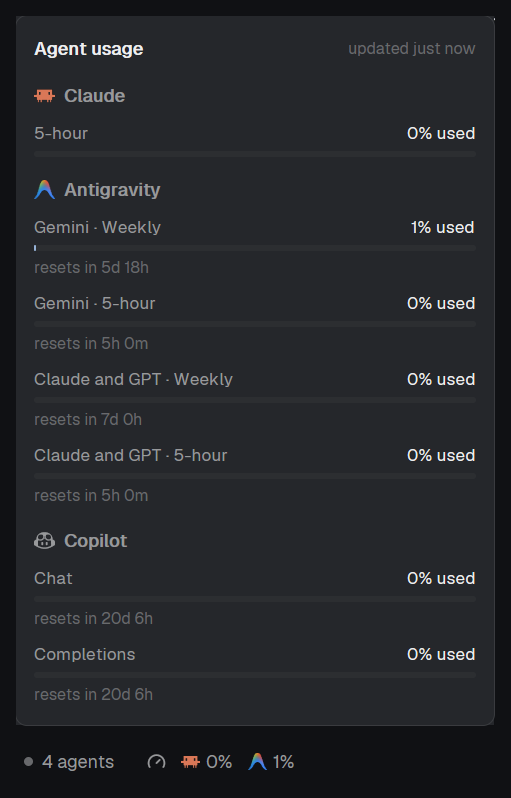
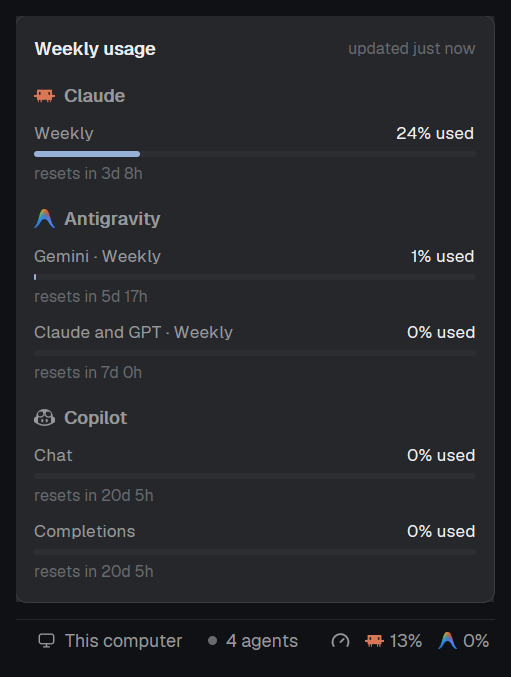
Bar shows the 5-hour limit, popup the weekly ones

diff --git a/mods/workspace-status-usage/usage.js b/mods/workspace-status-usage/usage.js
@@ -1,6 +1,7 @@
 import { exec, home, readTextFile } from "herdr";
 
-// Each provider answers { id, name, icon, tint?, windows: [{ label, used, resetsAt }], error }.
+// Each provider answers { id, name, icon, tint?, windows: [{ label, kind, used, resetsAt }], error }.
+// `kind` is "5h", "week" or "month": the bar shows the 5-hour windows, the popup the rest.
 // `used` is a percentage 0-100; `resetsAt` an ISO time or null.
 // `icon` is a path under ~/.config/herdr-app; `tint` means it takes the text color (svg) rather than its own (image).
 // `bar: false` leaves the provider out of the status bar; the popup still lists it.
@@ -12,12 +13,13 @@ async function claude() {
   const saved = JSON.parse((await readTextFile(`${home()}/.claude/herdr-rate-limits.json`)) ?? "null");
   if (saved?.rate_limits) {
     const now = Date.now() / 1000;
-    const win = (label, w) => w && {
+    const win = (label, kind, w) => w && {
       label,
+      kind,
       used: w.resets_at && w.resets_at < now ? 0 : w.used_percentage ?? 0,
       resetsAt: w.resets_at && w.resets_at >= now ? new Date(w.resets_at * 1000).toISOString() : null,
     };
-    return { ...base, windows: [win("5-hour", saved.rate_limits.five_hour), win("Weekly", saved.rate_limits.seven_day)].filter(Boolean) };
+    return { ...base, windows: [win("5-hour", "5h", saved.rate_limits.five_hour), win("Weekly", "week", saved.rate_limits.seven_day)].filter(Boolean) };
   }
   const creds = JSON.parse((await readTextFile(`${home()}/.claude/.credentials.json`)) ?? "{}");
   const token = creds.claudeAiOauth?.accessToken;
@@ -29,12 +31,12 @@ async function claude() {
   if (r.status === 401) return { ...base, error: "Token expired: run Claude Code once to refresh it" };
   if (!r.ok) return { ...base, error: `HTTP ${r.status}` };
   const d = await r.json();
-  const win = (label, w) => w && { label, used: w.utilization ?? 0, resetsAt: w.resets_at ?? null };
+  const win = (label, kind, w) => w && { label, kind, used: w.utilization ?? 0, resetsAt: w.resets_at ?? null };
   return { ...base, windows: [
-    win("5-hour", d.five_hour),
-    win("Weekly", d.seven_day),
-    win("Weekly Opus", d.seven_day_opus),
-    win("Weekly Sonnet", d.seven_day_sonnet),
+    win("5-hour", "5h", d.five_hour),
+    win("Weekly", "week", d.seven_day),
+    win("Weekly Opus", "week", d.seven_day_opus),
+    win("Weekly Sonnet", "week", d.seven_day_sonnet),
   ].filter(Boolean) };
 }
 
@@ -49,6 +51,7 @@ async function antigravity() {
   const short = (g) => g.replace(/ models?$/i, "");
   return { ...base, windows: groups.flatMap((g) => g.buckets.map((b) => ({
     label: `${short(g.name)} · ${b.window === "5h" ? "5-hour" : "Weekly"}`,
+    kind: b.window === "5h" ? "5h" : "week",
     used: Math.round((1 - b.remaining_fraction) * 1000) / 10,
     resetsAt: b.reset_time ?? null,
   }))) };
@@ -66,7 +69,7 @@ async function copilot() {
   const d = await r.json();
   const q = d.quota_snapshots ?? {};
   const reset = d.quota_reset_date ?? null;
-  const win = (label, s) => s && !s.unlimited && s.entitlement > 0 && { label, used: Math.round((100 - s.percent_remaining) * 10) / 10, resetsAt: reset };
+  const win = (label, s) => s && !s.unlimited && s.entitlement > 0 && { label, kind: "month", used: Math.round((100 - s.percent_remaining) * 10) / 10, resetsAt: reset };
   return { ...base, windows: [
     win("Premium requests", q.premium_interactions),
     win("Chat", q.chat),
@@ -83,9 +86,10 @@ export async function fetchUsage() {
   return { updatedAt: Date.now(), providers: results };
 }
 
-// The tightest window: what the status bar shows for a provider.
-export function peak(p) {
-  return p.windows.reduce((m, w) => Math.max(m, w.used), -1);
+// The tightest window of a kind ("5h" for the status bar); any window when it has none of that kind.
+export function peak(p, kind) {
+  const of = p.windows.filter((w) => w.kind === kind);
+  return (of.length ? of : p.windows).reduce((m, w) => Math.max(m, w.used), -1);
 }
 
 export function tone(t, used) {

diff --git a/mods/agent-usage-popup/main.js b/mods/agent-usage-popup/main.js
@@ -3,6 +3,7 @@ import { h_flex, v_flex } from "gpui-base";
 import { theme, shared } from "herdr";
 
 // Opened from the status bar's usage item; it fetches, this only shows what it shared.
+// The bar already shows the 5-hour windows, so this lists the longer ones (weekly, monthly).
 const USAGE = "agent-usage";
 
 function ago(ms) {
@@ -39,7 +40,7 @@ export default class AgentUsagePopup extends View {
     const data = shared(USAGE);
     return v_flex().id("root").size_full().overflow_y_scrollbar().p(12).gap(12).bg(t.popover).text_size(12).text_color(t.foreground)
       .child(h_flex().justify_between().items_center()
-        .child(div().font_semibold().child("Agent usage"))
+        .child(div().font_semibold().child("Weekly usage"))
         .child(div().text_size(10.5).text_color(t.dim).child(data ? `updated ${ago(data.updatedAt)}` : "loading…")))
       .children((data?.providers ?? []).map((p) => v_flex().gap(6)
         .child(h_flex().gap(6).items_center()
@@ -47,6 +48,6 @@ export default class AgentUsagePopup extends View {
           .child(div().font_semibold().text_color(t.muted).child(p.name)))
         .when(Boolean(p.error), (el) => el.child(div().text_size(11).text_color(t.blocked).child(p.error)))
         .when(!p.error && p.windows.length === 0, (el) => el.child(div().text_size(11).text_color(t.dim).child("No limits reported")))
-        .children(p.windows.map((w, i) => this.window(t, w, `${p.id}-${i}`)))));
+        .children(p.windows.filter((w) => w.kind !== "5h").map((w, i) => this.window(t, w, `${p.id}-${i}`)))));
   }
 }

diff --git a/mods/workspace-status-usage/main.js b/mods/workspace-status-usage/main.js
@@ -53,7 +53,7 @@ export default class WorkspaceStatus extends View {
   usage(t) {
     const data = shared(USAGE);
     const items = (data?.providers ?? []).filter((p) => p.bar !== false).map((p) => {
-      const used = peak(p);
+      const used = peak(p, "5h");
       return h_flex().gap(4).items_center()
         .child(logo(t, p, 13))
         .child(div().text_color(p.error || used < 0 ? t.dim : tone(t, used)).child(used < 0 ? "–" : `${Math.round(used)}%`));
@@ -61,7 +61,7 @@ export default class WorkspaceStatus extends View {
     return h_flex().id("usage").gap(10).items_center().px(6).rounded(4).hover((s) => s.bg(t.hover))
       .on_click((_e, cx) => {
         this.refresh(cx);
-        openOverlay({ mod: "agent-usage-popup", kind: "popup", width: 320, height: 580 });
+        openOverlay({ mod: "agent-usage-popup", kind: "popup", width: 320, height: 440 });
       })
       .child(svg("mods/workspace-status-usage/gauge.svg").size(13).when(this.loading, (el) => el.text_color(t.working)))
       .when(items.length === 0, (el) => el.child(div().text_color(t.dim).child("usage…")))

diff --git a/RECIPE.md b/RECIPE.md
@@ -1,9 +1,9 @@
 # Agent Usage
 
 Your coding agents' rate limits in Herdr's status bar. After "N agents", each
-agent's logo is followed by how much of its tightest limit you've used: Claude
-and Antigravity by default. Click it for a popup listing every limit window
-(5-hour, weekly, per model group), each with a bar and the time until it resets.
+agent's logo is followed by how much of its 5-hour limit you've used: Claude
+and Antigravity by default. Click it for a popup with the weekly limits (and
+Copilot's monthly ones), each with a bar and the time until it resets.
 
 ![Agent Usage](preview.png)
 
@@ -13,26 +13,29 @@ and Antigravity by default. Click it for a popup listing every limit window
   background, 11.8px `muted` text): `This computer · <branch> · ● N agents`,
   then the usage item, then the palette hint on the right as before.
 - **Usage item:** a 13px gauge icon, then per agent a 13px logo and a
-  percentage (`22%`), 10px apart, 4px between logo and number. It's a rounded
+  5-hour percentage (`13%`), 10px apart, 4px between logo and number. It's a rounded
   (4px) button with 6px side padding and a `hover` background.
   - Number color: `muted` under 70%, `ansi3` (yellow) from 70%, `blocked`
     (red) from 90%, `dim` when the last refresh failed. `–` when the agent
     has no numbers yet.
   - Before the first answer the item reads `usage…`. While a refresh runs
     the gauge turns `working`.
-- **Popup** (`popup`, 320 x 580, `popover` background, 12px padding, 12px
-  gaps, scrolls): `Agent usage` (semibold) with `updated just now / 3m ago`
+- **Popup** (`popup`, 320 x 440, `popover` background, 12px padding, 12px
+  gaps, scrolls): `Weekly usage` (semibold) with `updated just now / 3m ago`
   (10.5px `dim`) on the right. Per agent: a 14px logo and the name
-  (semibold, `muted`), then each window: label left (`muted`, 11.5px),
+  (semibold, `muted`), then each window that isn't a 5-hour one: label left (`muted`, 11.5px),
   `N% used` right (`foreground`), a 4px bar (`raised` track, `accent` fill,
-  yellow/red past 70/90%), and `resets in 4h 12m` / `resets in 5d 18h`
+  yellow/red past 70/90%), and `resets in 3d 8h` / `resets in 20d 5h`
   (10.5px `dim`). Errors show in `blocked` color under the name.
 
 ## How it behaves
 
 - Refreshes every 60 seconds, and when the usage item is clicked (which
   also opens the popup). Esc closes the popup.
-- The bar shows each agent's tightest window (the highest `used`). Agents
+- The bar shows each agent's tightest 5-hour window (Antigravity has two,
+  one per model group: the higher one wins); an agent with no 5-hour window
+  shows its tightest window of any kind. The popup lists the other windows
+  (weekly, and Copilot's monthly ones); 5-hour reset times aren't shown. Agents
   marked `bar: false` (Copilot by default) are left out of the bar and
   still listed in the popup.
 - A failed refresh (offline, HTTP 429) keeps the agent's last numbers,
@@ -49,19 +52,20 @@ and Antigravity by default. Click it for a popup listing every limit window
   count. Point the layout's status block (id `status`, `"content": { "mod": ... }`,
   28px, at the bottom) at it.
   - `usage.js`: one async function per agent returning
-    `{ id, name, icon, tint?, bar?, windows: [{ label, used, resetsAt }], error? }`.
-    `used` is 0-100, `resetsAt` ISO or null. `icon` is Herdr's own
+    `{ id, name, icon, tint?, bar?, windows: [{ label, kind, used, resetsAt }], error? }`.
+    `kind` is `"5h"`, `"week"` or `"month"`; `used` is 0-100, `resetsAt` ISO
+    or null. `peak(p, "5h")` gives the bar's number. `icon` is Herdr's own
     `icons/<agent>.svg`. `tint: true` draws it with `svg()` in `muted`
     (single-color logos), otherwise `image()` keeps its colors.
   - `main.js`: `cx.timer.every(60000)` calls `fetchUsage()` (all agents in
     parallel, each wrapped so one failure doesn't stop the others), merges
     with the previous value (`keepLast`) and stores it with
     `setShared("agent-usage", …)`. On click:
-    `openOverlay({ mod: "agent-usage-popup", kind: "popup", width: 320, height: 580 })`.
+    `openOverlay({ mod: "agent-usage-popup", kind: "popup", width: 320, height: 440 })`.
   - `gauge.svg`: a lucide-style gauge, `currentColor`.
 - `mods/agent-usage-popup/`: renders `shared("agent-usage")` only, no
-  fetching. Its `mod.json` has
-  `"overlay": { "kind": "popup", "width": 320, "height": 580 }`, so
+  fetching, and skips windows with `kind: "5h"`. Its `mod.json` has
+  `"overlay": { "kind": "popup", "width": 320, "height": 440 }`, so
   `mod.open` opens it too.
 - Where the numbers come from:
   - **Claude:** `~/.claude/herdr-rate-limits.json`, written by
@@ -120,11 +124,12 @@ and Antigravity by default. Click it for a popup listing every limit window
 ## Done when
 
 - `herdr-app check` passes for both mod folders.
-- The status bar shows the gauge, then a logo and percentage for Claude
-  and Antigravity, right after `N agents`.
-- Clicking the usage item opens the popup listing Claude (5-hour, Weekly),
-  Antigravity (four windows) and Copilot, with bars and reset times, and
-  `updated just now`.
+- The status bar shows the gauge, then a logo and the 5-hour percentage
+  for Claude and Antigravity, right after `N agents`.
+- Clicking the usage item opens `Weekly usage` listing Claude (Weekly),
+  Antigravity (Gemini · Weekly, Claude and GPT · Weekly) and Copilot (Chat,
+  Completions), with bars and reset times, and `updated just now`.
+- The bar's Claude number matches the 5-hour line of Claude Code's `/usage`.
 - After a Claude Code reply, `~/.claude/herdr-rate-limits.json` exists and
   the Claude numbers in the popup match Claude Code's `/usage`.
 - Two refreshes, read from `shared.json`'s `agent-usage.updatedAt`, are
